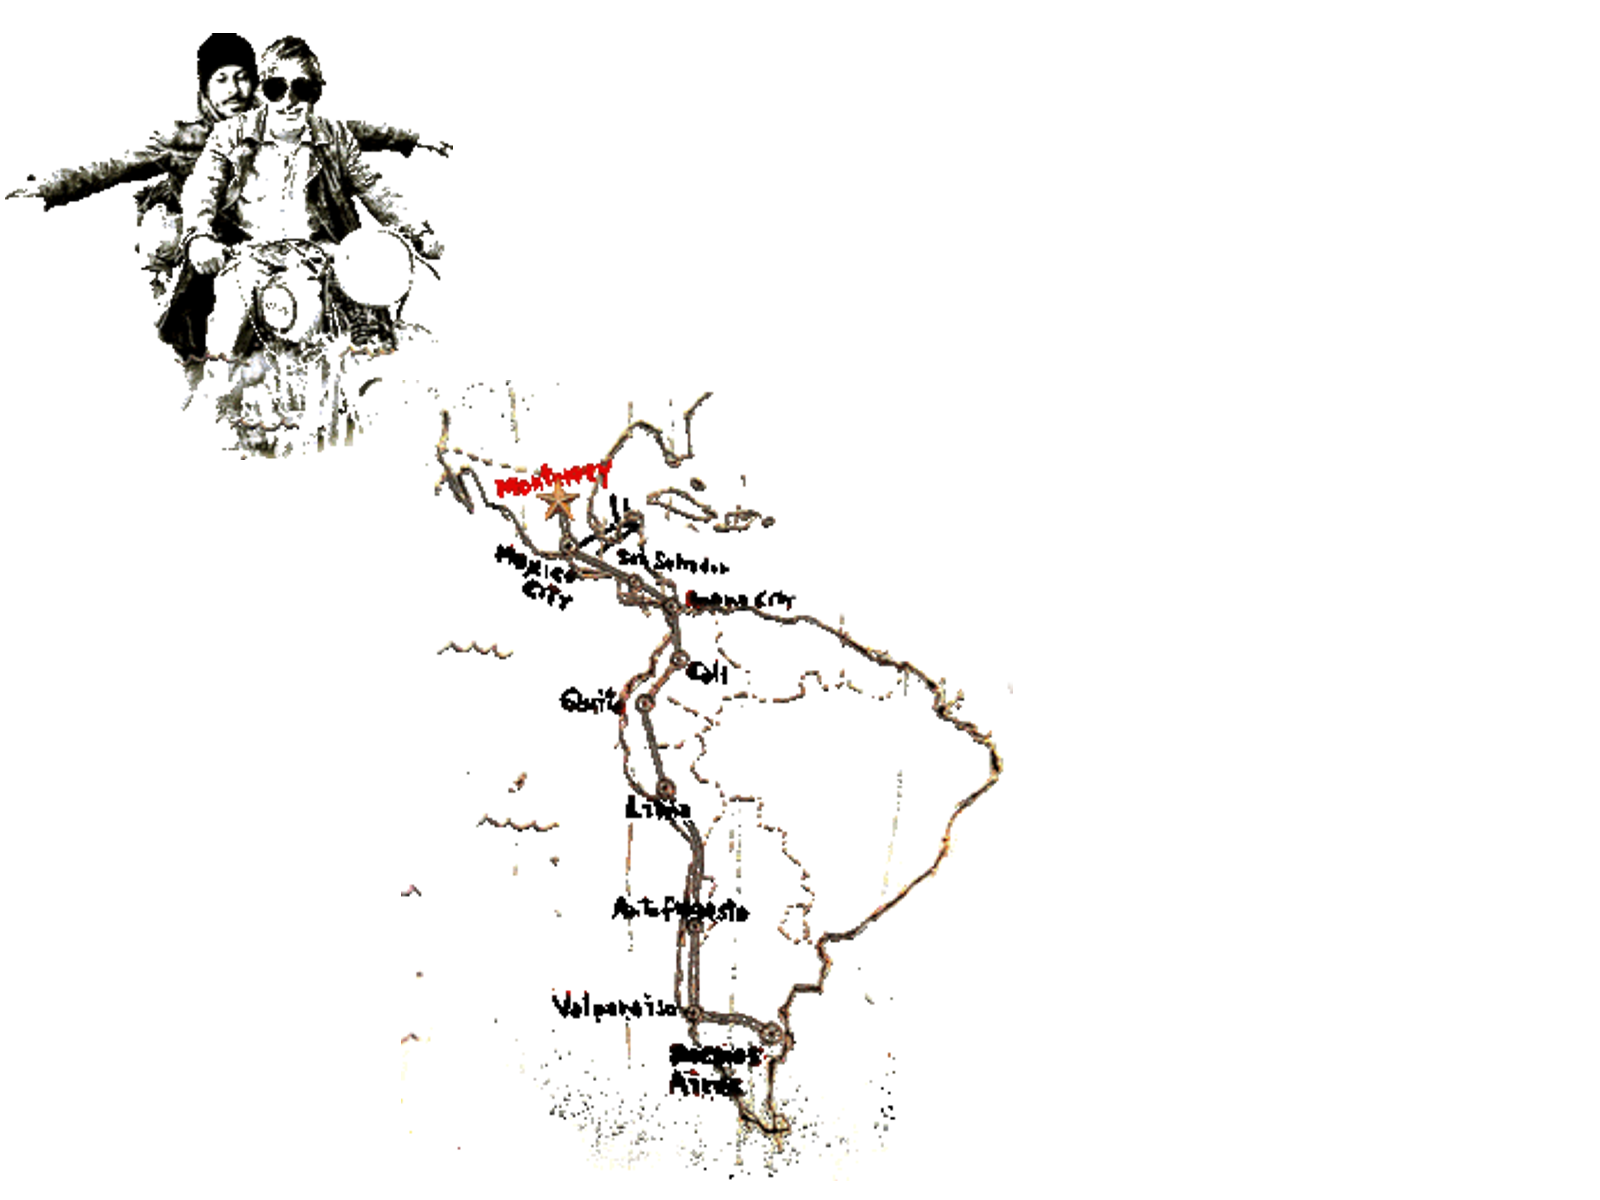
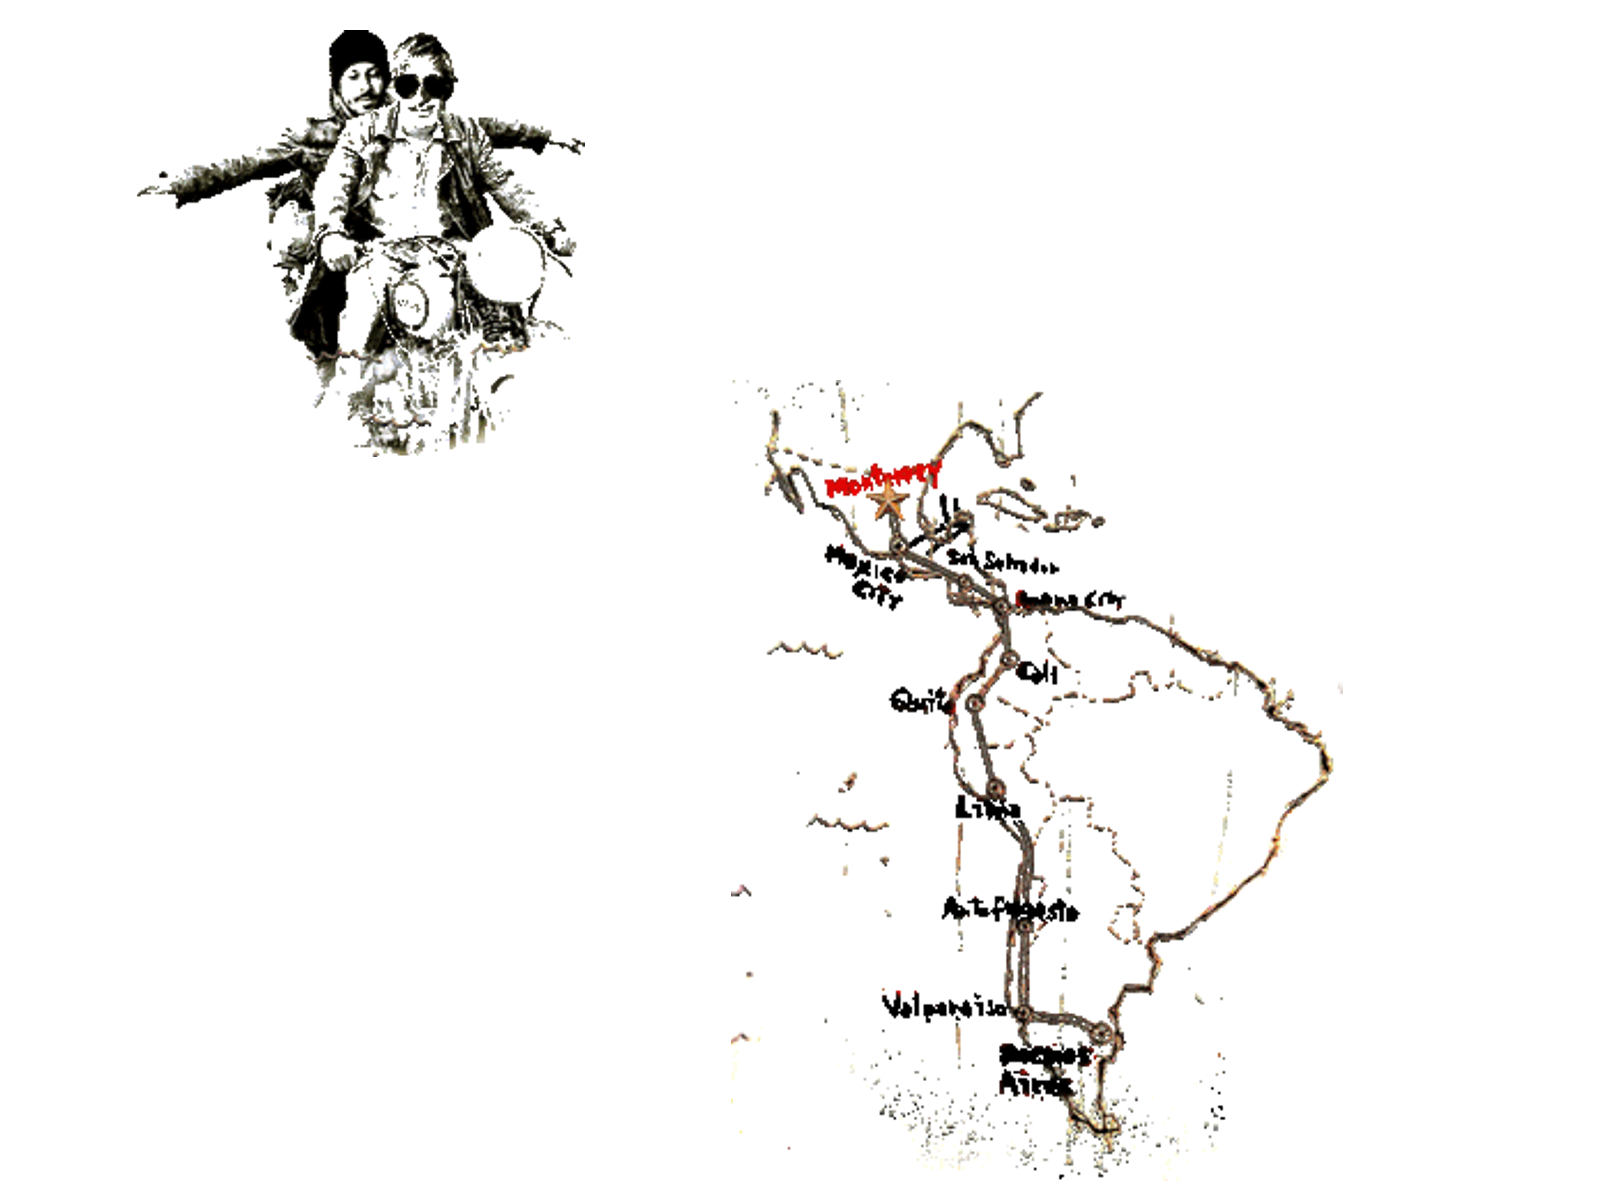
Updates

diff --git a/style.css b/style.css
@@ -7,5 +7,5 @@
  * Description:  	Blank Woothemes Storefront child theme with SASS, GULP and browser-sync.
  * Version:      	1.0.0
  * License:      	GNU General Public License v2 or later
- */body.oficina{background:center/100% url("assets/bg.jpg")}.col-full{max-width:988px}.white-bg{background-color:rgba(255,255,255,0.5) !important;padding:16px;box-shadow:0 0 2px rgba(0,0,0,0.5);margin:3px}.dbg-center{position:absolute;top:50%;left:50%;transform:translate(-50%, -50%);text-align:center;background:rgba(0,0,0,0.5);color:#ffffff;padding:5px 11px}#masthead{background:none;border-bottom:none}#masthead .site-branding{width:100%}#masthead .site-branding .site-title,#masthead .site-branding .site-description,#masthead .site-branding img{float:left}#masthead .site-branding .site-title,#masthead .site-branding .site-description{margin-left:1em;clear:none;background:rgba(255,255,255,0.5);padding:7px 11px}#side-menu{position:fixed;left:0;top:25vh;background:#000;color:#fff;font:20px sans-serif;padding:0.7em 0;width:160px;text-align:right;transform:translateX(-100%);transition:transform 0.35s}#side-menu:hover{transform:translateX(0%)}#side-menu ul,#side-menu li,#side-menu a{display:block;margin:0;padding:0;color:inherit}#side-menu a{margin-bottom:0.3em;padding:0.5em 1em}#side-menu li:last-of-type a{margin-bottom:0}#side-menu .side-menu-toggle{position:absolute;top:0;left:100%;background:#000;transform:rotate(-90deg) translateX(-100%);transform-origin:0 0;border-radius:0 0 7px 7px;text-transform:uppercase;cursor:pointer}.site-main{position:relative}.home-posts-bg{position:absolute;top:0;left:2%;right:2%;margin-top:23%}.home-posts-wrap article{float:left;width:47%;margin:1.6%;background:center/cover;overflow:hidden}.home-posts-wrap article li,.home-posts-wrap article p{overflow:hidden;margin:auto;display:block;line-height:25px}@media screen and (min-width: 1024px){.home-posts-wrap article{width:30%}.home-posts-wrap .H-TEXT1{width:61.6%;margin:.5%}.home-posts-wrap .H-TEXT1 p{max-height:75px}.home-posts-wrap .H-TEXT2{padding:35px 50px 0 0}.home-posts-wrap .H-TEXT2 p{max-height:124px}.home-posts-wrap .H-TEXT3 p{max-height:124px}.home-posts-wrap .H-PEOPLE{margin-bottom:52%}.home-posts-wrap .H-DRINKS{padding:7px 50px;margin-bottom:52%}.home-posts-wrap .H-FOOD1{max-height:277px}.home-posts-wrap .H-FOOD2{max-height:300px;margin-bottom:27%}.home-posts-wrap .sidebar-NR1,.home-posts-wrap .PLACE1{margin-left:-43px}.home-posts-wrap .post-vid-wrap .post-vid{padding-top:52%;position:relative}.home-posts-wrap .post-vid-wrap iframe{position:absolute;top:0;right:0;bottom:0;left:0;height:auto;width:auto}.home-posts-wrap .H-PICS1{padding:0 50px 0 25px}.home-posts-wrap .PLACE1{max-height:320px}.home-posts-wrap .sidebar-NR1 li{max-height:128px}}.oficina .site-footer{padding:1.6em 0;background:none}.oficina .site-info{padding:0}
+ */body.oficina{background:url("assets/bg.png")}#page{background:no-repeat right calc(50vw - 470px) top url("assets/redline.png")}.col-full{max-width:988px}.white-bg{background-color:rgba(255,255,255,0.5) !important;padding:16px;box-shadow:0 0 2px rgba(0,0,0,0.5);margin:3px}.dbg-center{position:absolute;top:50%;left:50%;transform:translate(-50%, -50%);text-align:center;background:rgba(0,0,0,0.5);color:#ffffff;padding:5px 11px}#masthead{background:none;border-bottom:none}#masthead .site-branding{width:100%}#masthead .site-branding .site-title,#masthead .site-branding .site-description,#masthead .site-branding img{float:left}#masthead .site-branding .site-title,#masthead .site-branding .site-description{margin-left:1em;clear:none;background:rgba(255,255,255,0.5);padding:7px 11px}#side-menu{position:fixed;left:0;top:25vh;background:#000;color:#fff;font:20px sans-serif;padding:0.7em 0;width:160px;text-align:right;transform:translateX(-100%);transition:transform 0.35s}#side-menu:hover{transform:translateX(0%)}#side-menu ul,#side-menu li,#side-menu a{display:block;margin:0;padding:0;color:inherit}#side-menu a{margin-bottom:0.3em;padding:0.5em 1em}#side-menu li:last-of-type a{margin-bottom:0}#side-menu .side-menu-toggle{position:absolute;top:0;left:100%;background:#000;transform:rotate(-90deg) translateX(-100%);transform-origin:0 0;border-radius:0 0 7px 7px;text-transform:uppercase;cursor:pointer}.site-main{position:relative}.home-posts-bg{position:absolute;top:0;left:-2%;right:0;margin-top:23%}.home-posts-wrap article{float:left;width:47%;margin:1.6%;background:center/cover;overflow:hidden}.home-posts-wrap article li,.home-posts-wrap article p{overflow:hidden;margin:auto;display:block;line-height:25px}@media screen and (min-width: 1024px){.home-posts-wrap article{width:30%}.home-posts-wrap .H-TEXT1{width:61.6%;margin:.5%}.home-posts-wrap .H-TEXT1 p{max-height:75px}.home-posts-wrap .H-TEXT2{padding:35px 50px 0 0}.home-posts-wrap .H-TEXT2 p{max-height:124px}.home-posts-wrap .H-TEXT3 p{max-height:124px}.home-posts-wrap .H-PEOPLE{margin-bottom:38%}.home-posts-wrap .H-DRINKS{padding:7px 56px;margin-bottom:52%}.home-posts-wrap .H-FOOD1{padding:0 7px;max-height:277px}.home-posts-wrap .H-FOOD2{padding:0 16px;max-height:300px;margin-bottom:41%}.home-posts-wrap .PEOPLE,.home-posts-wrap .PEOPLE1,.home-posts-wrap .PEOPLE2,.home-posts-wrap .PEOPLE3{padding:7px 25px 16px}.home-posts-wrap .sidebar-NR1,.home-posts-wrap .PLACE1{margin-left:-43px}.home-posts-wrap .post-vid-wrap .post-vid{padding-top:52%;position:relative}.home-posts-wrap .post-vid-wrap iframe{position:absolute;top:0;right:0;bottom:0;left:0;height:auto;width:auto}.home-posts-wrap .H-PICS1{padding:0 50px 0 25px}.home-posts-wrap .PLACE1{max-height:320px}.home-posts-wrap .sidebar-NR1 li{max-height:128px}}.oficina .site-footer{padding:1.6em 0;background:none}.oficina .site-info{padding:0}
 /*# sourceMappingURL=style.css.map */

diff --git a/sass/_content.scss b/sass/_content.scss
@@ -5,8 +5,8 @@
 .home-posts-bg {
 	position: absolute;
 	top: 0;
-	left: 2%;
-	right: 2%;
+	left: -2%;
+	right: 0;
 	margin-top: 23%;
 }
 .home-posts-wrap {
@@ -49,18 +49,23 @@
 			}
 		}
 		.H-PEOPLE {
-			margin-bottom: 52%;
+			margin-bottom: 38%;
 		}
 		.H-DRINKS {
-			padding: 7px 50px;
+			padding: 7px 56px;
 			margin-bottom: 52%;
 		}
 		.H-FOOD1 {
+			padding: 0 7px;
 			max-height: 277px;
 		}
 		.H-FOOD2 {
+			padding: 0 16px;
 			max-height: 300px;
-			margin-bottom: 27%;
+			margin-bottom: 41%;
+		}
+		.PEOPLE, .PEOPLE1, .PEOPLE2, .PEOPLE3 {
+			padding: 7px 25px 16px;
 		}
 		.sidebar-NR1, .PLACE1 {
 			margin-left: -43px;

diff --git a/script.js b/script.js
@@ -1,5 +1,8 @@
 jQuery( function( $ ) {
-	$('.home-posts-wrap').masonry( {
-		items: 'article',
+	var $homePosts = $('.home-posts-wrap');
+	$homePosts.imagesLoaded( function () {
+		$homePosts.masonry( {
+			itemSelector: 'article',
+		} );
 	} );
 } );

diff --git a/sass/_base.scss b/sass/_base.scss
@@ -1,5 +1,9 @@
 body.oficina {
-	background: center/100% url('assets/bg.jpg');
+	background: url('assets/bg.png');
+}
+
+#page {
+	background: no-repeat right calc(50vw - 470px) top url("assets/redline.png");
 }
 
 .col-full {

diff --git a/home.php b/home.php
@@ -54,7 +54,7 @@ $h_vid = rnd_post_from_cat( 'H-VIDEO' );
 					</div>
 				</article>
 				<?php rnd_post_img_from_cat( 'H-PICS2' ) ?>
-				<?php rnd_post_img_from_cat( 'FOOD' ) ?>
+				<?php //rnd_post_img_from_cat( 'FOOD' ) ?>
 				<?php rnd_post_img_from_cat( 'PRESS' ) ?>
 			</div>
 
